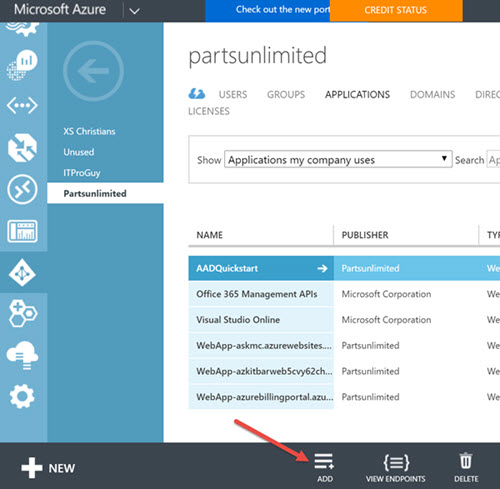
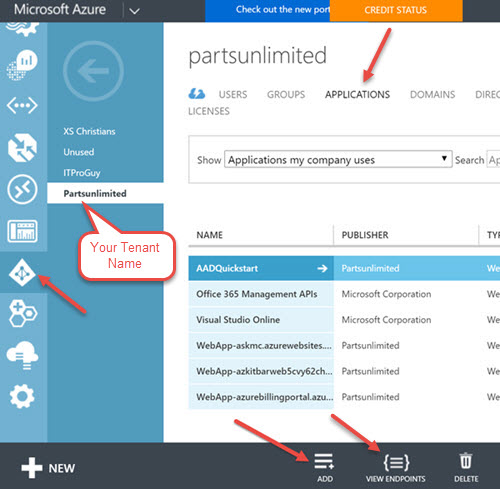
Update to Create AAD App support doc (#94)
* added images
* clean up formatting
* Add gather tenant ID
* Add in Multi-tenancy steps

diff --git a/docs/CreateAzureADforAzureBot.md b/docs/CreateAzureADforAzureBot.md
@@ -2,22 +2,42 @@
 
 If you would like to authenticate against your own Azure AD for development or private use of the AzureBot code, you'll need to setup your own Azure AD application.  Here are the steps you need to follow:
 
-1. Create or Utilize an Azure Active Directory (AAD) tenant<br>
-You will need to create a new AAD application via the classic portal or via PowerShell.  To complete these steps, please [see this article](https://azure.microsoft.com/en-us/documentation/articles/active-directory-howto-tenant/). 
-
+1. Create or Utilize an Azure Active Directory (AAD) Tenant
 2. Create a new Azure AD app on the AAD tenant
-* Go to the [classic Azure portal](http://manage.windowsazure.com) and add a new application. <br>
-![AzureAD-NewApplication](.\media\AzureAD-NewApp.jpg)
-* Select Add an application my organization is developing
-* Pick any name you want and select Web Application / Web API radio button
-* For both URLs pick the base domain name you'd like to publish your Bot code to  and then add /api/messages. <br>i.e. https://mycustomsite.azurewebsites.net/api/messages
-
 3. Configure the AAD application for use with the AzureBot
-<br> Go to the configure tab of the application you just created and do the following:
-* Save the *Client ID* value. You will need this for the AzureBot development
-* Select duration for a key and click save.  Securely save the application secret key displayed on the screen - you will also need this for AzureBot Development.  You won't get access to this key again.
-* Add and save these two Reply URLs as follows: <br>https://mycustomsite.azurewebsites.com/api/OAuthCallback
-<br>https://localhost/api/OAuthCallback
-* Click on the green Add permissions to other applications button.  Select Windows Service Management API and check the checkbox.
-* Select Delegated Permissions and click the checkbox to "Access Azure Service Management..."
-<br> ![AzureAD-Permissions](.\media\AzureAD-Permissions.jpg)
+4. Configure App Multi-Tenancy (optional)
+
+## 1. Create or Utilize an Azure Active Directory (AAD) tenant
+* You will need to create a new AAD application via the classic portal or via PowerShell.  To complete these steps, please [see this article](https://azure.microsoft.com/en-us/documentation/articles/active-directory-howto-tenant/).
+* Once it's created, get the Tenant ID by going to the [classic Azure portal](http://manage.windowsazure.com), select the Azure AD resource, and click on the view endpoints button.
+<br>![AzureAD-NewApplication](media/AzureAD-NewApp.jpg)
+* Note the tenant ID is the number after the **microsoftonline.com/** text (example is inside the red box with the full number continuing past the 98 at the end).
+<br> ![AzureAD-GetTenantID.jpg](media/AzureAD-GetTenantID.jpg)
+
+## 2. Create a new Azure AD app on the AAD tenant
+
+ * In the same location as the previous step, click on add a new application. <br>
+ 
+ * Select Add an application my organization is developing
+ * Pick any name you want and select Web Application / Web API radio button
+ * For both URLs pick the base domain name where you publish your Bot code to and then add /api/messages. <br>i.e. https://_mycustomsite_.azurewebsites.net/api/messages
+
+> Note: If you plan to make your app multi-tenant enabled, you'll need to use a public domain name and get a corresponding SSL certificate.  See step 4 for more information.  You would then use something like https://_mycustomdomain.com_/api/messages instead.
+
+## 3. Configure the AAD application for use with the AzureBot
+Go to the configure tab of the application you just created and do the following:
+
+ * Save the *Client ID* value. You will need this for the AzureBot development
+ * Select duration for a key and click save.  Securely save the application secret key displayed on the screen - you will also need this for AzureBot Development.  You won't get access to this key again.
+ * Add and save these two Reply URLs as follows: <br>https://_mycustomsite_.azurewebsites.com/api/OAuthCallback
+ <br>https://localhost/api/OAuthCallback
+ * Click on the green Add permissions to other applications button.  Select Windows Service Management API and check the checkbox.
+ * Select Delegated Permissions and click the checkbox to "Access Azure Service Management..."
+ <br> ![AzureAD-Permissions](media/AzureAD-Permissions.jpg)
+
+## 4. Configure App Multitenancy
+ If you want the AzureBot deployment using this application to be able to access Azure subscriptions other than ones which are directly under management of the Azure AD tenant where the application resides, then you will need to enable the application to be multi-tenant.  In order to make this work, you have to do the following:
+ 
+* Own a custom domain name and corresponding SSL certificate which is assigned to where your bot code is deployed.  This should match in all of the places where you configured https URLs from the above steps.
+* In the domains tab of your AAD tenant in the classic portal, add in the domain name you own and verify it
+* In the AAD application you configured for the bot, go into the configure tab and select "Yes" for the "Application is Multi-Tenant" setting.
